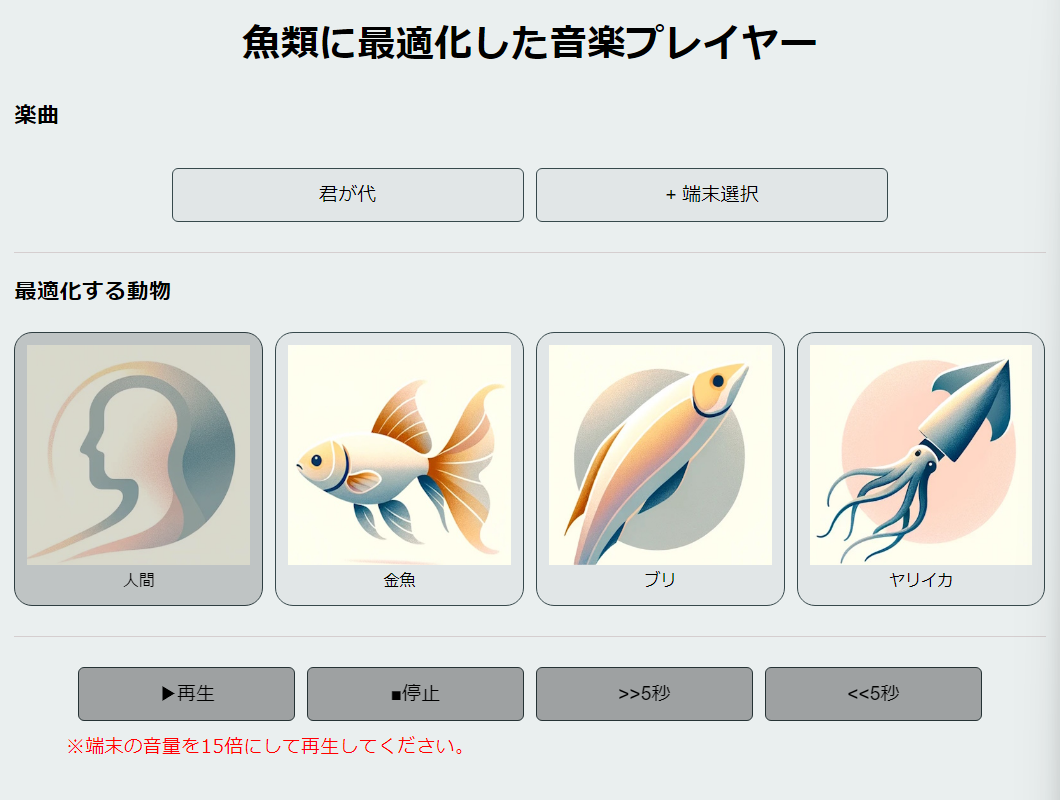
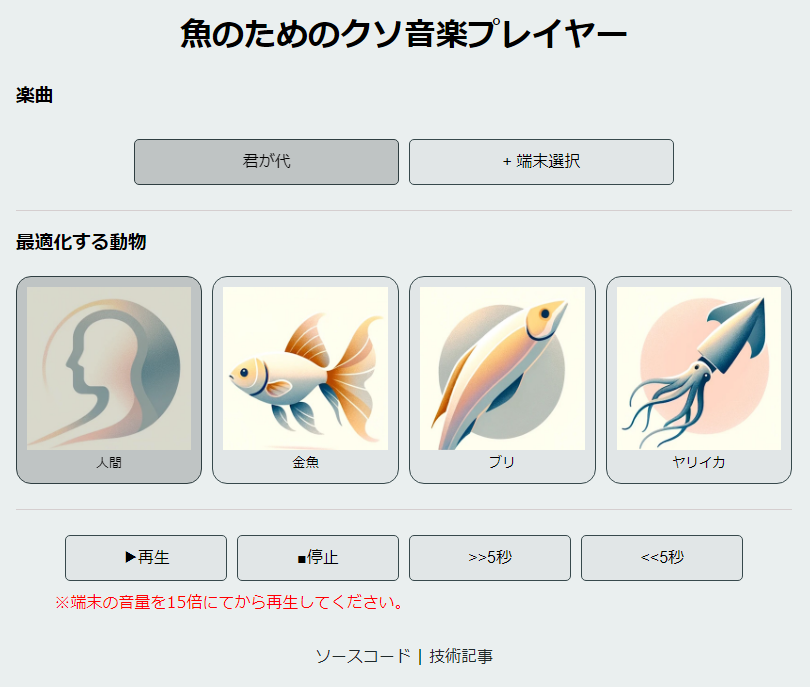
fix kuso apuri

diff --git a/articles/e4ea3fdbc90c1b.md b/articles/e4ea3fdbc90c1b.md
@@ -1,5 +1,5 @@
 ---
-title: "魚類のためのクソ音楽プレイヤーアプリを作った"
+title: "魚のためのクソ音楽プレイヤーを作った"
 emoji: "🐟"
 type: "idea" # tech: 技術記事 / idea: アイデア
 topics: ["Javascript", "TypeScript", "vue", "WebAudioAPI", "frontend"]
@@ -19,20 +19,20 @@ published_at: 2023-12-21 00:01
 # 作ったもの
 
 楽曲を特定の魚のためだけに特化して再生できるアプリケーションです。
-https://fish-beat.homisoftware.net/
+https://fish-beat.homisoftware.net
 ![](/images/e4ea3fdbc90c1b/1.png)
 
 # 使い方
 
 1. 楽曲選択
-2. 特化したい動物を選択
+2. 動物を選択
 3. 再生ボタンを押す
-4. 端末の音量を`15倍`にする
+4. 端末の音量を「`15倍`」にする
 
 https://youtu.be/PLTEZnu7Mls?si=DYh3Ibywv2QvnILw
 個人的にブリの音が好きです。
 
-# 魚類の音の聞こえ方
+# 魚の音の聞こえ方
 
 多くの魚たちは2~3000hzの範囲でしか音が聞こえません。
 また魚によって周波数毎のdb感度が違ったりします。
@@ -42,9 +42,15 @@ https://youtu.be/PLTEZnu7Mls?si=DYh3Ibywv2QvnILw
 図で表すとこんな感じになります。
 ![](/images/e4ea3fdbc90c1b/2.png)
 
+# このアプリでしていること
+
+人間と魚の音の聞こえ方の差をとり、その差を増幅させたりしています。
+楽曲は人間ベースなので、その差を埋めてしまえば、たぶん魚好みの音になるのかなあと。
+エフェクターみたいな物だと思えばわかりやすいと思います。
+
 # 実装
 
-楽曲をWebAudioAPIで読み込ませ、魚介類毎に用意したBiquadFilterNodeで音を加工して再生しています。
+楽曲をWebAudioAPIで読み込ませ、魚毎に用意したBiquadFilterNodeで音を加工して再生しています。
 
 ## 金魚に最適化した音を作る
 
@@ -164,7 +170,7 @@ lastNode.connect(this._audioContext.destination)
 
 ## 悪い事を思いついた
 
-Web Audio Apiのゲインは最大で1541倍まで増幅できるらしい。
+Web Audio Apiのゲインの最大値は1541なので、単純に1541倍まで増幅できるらしい。
 なので、1541倍した音をユーザー操作に紐づけて再生させたら、ユーザーのスピーカーをぶっ壊す事ができるのではと思いました。
 ひよって400倍でためしたらブラウザが止めてくれました。やさしい。
 @[tweet](https://twitter.com/ritoweb0321/status/1732567921778655307?s=20)
@@ -173,7 +179,7 @@ Web Audio Apiのゲインは最大で1541倍まで増幅できるらしい。
 # おわりに
 
 はじめてのクソアプリ制作でした。
-これでよかったんだろうか。
+まったく価値のないアプリで悩んでいる時間がよくわからなくて楽しかったです。
 
 完成したコードはこちらです。
 https://github.com/ritogk/fish-beat
